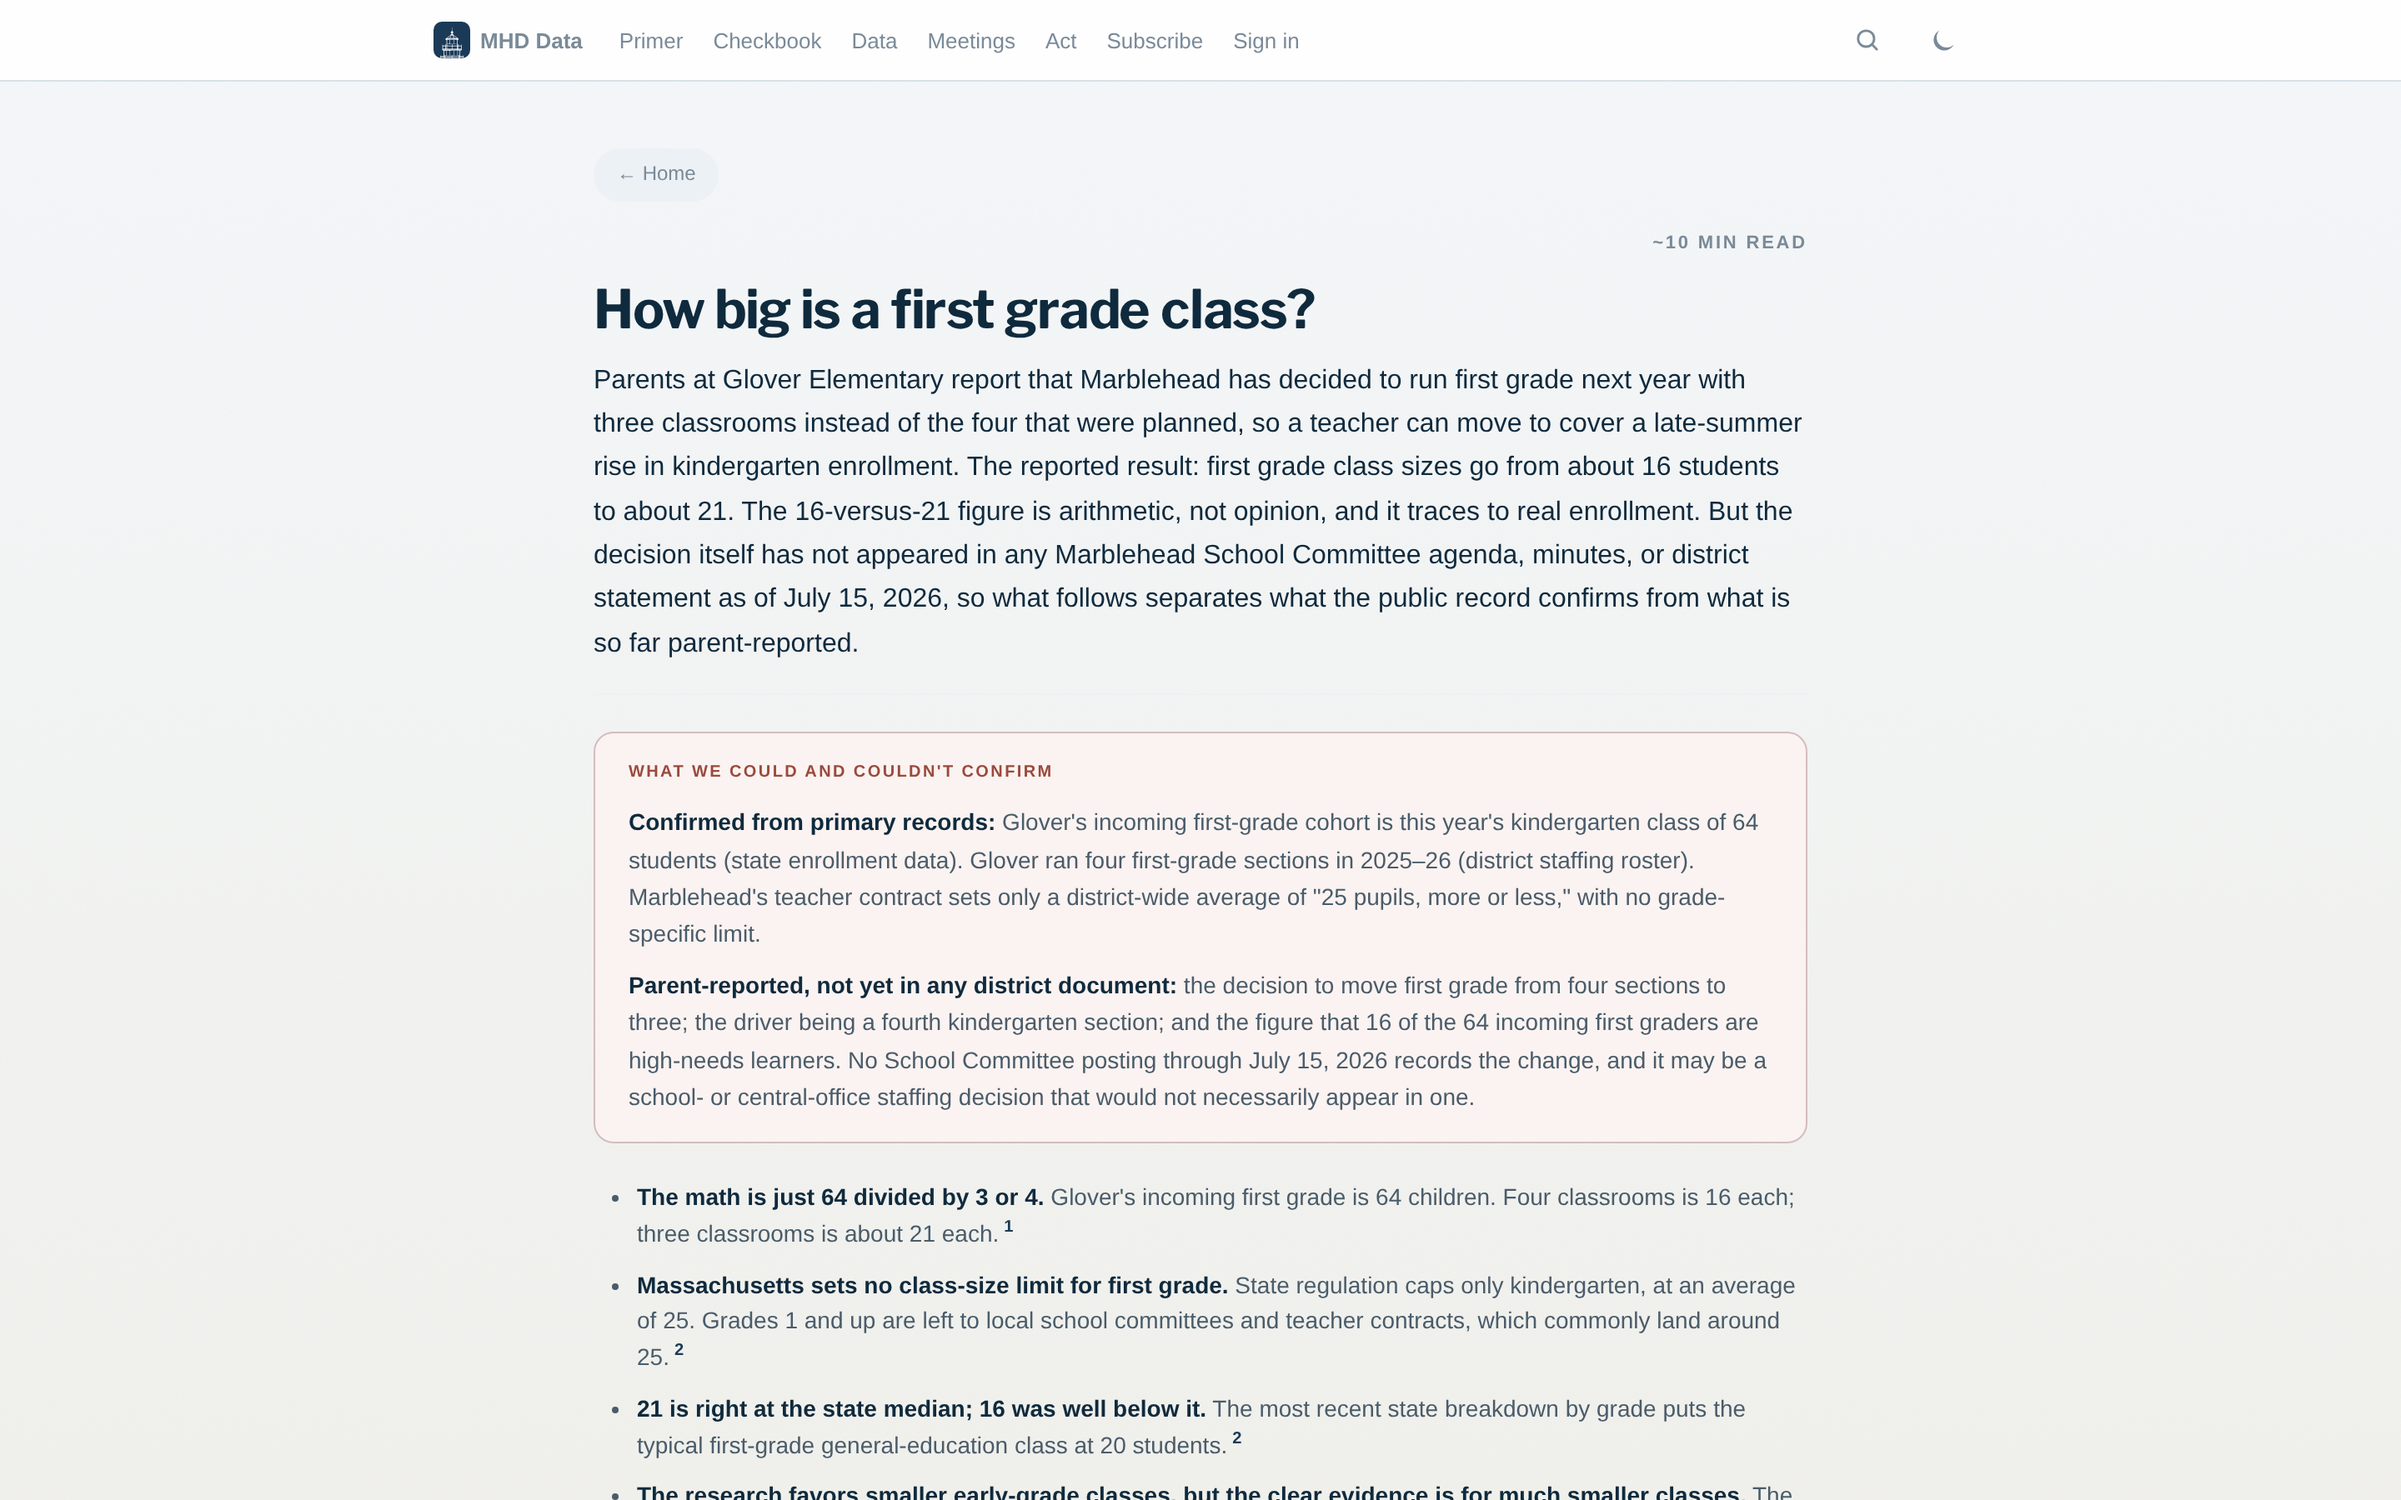
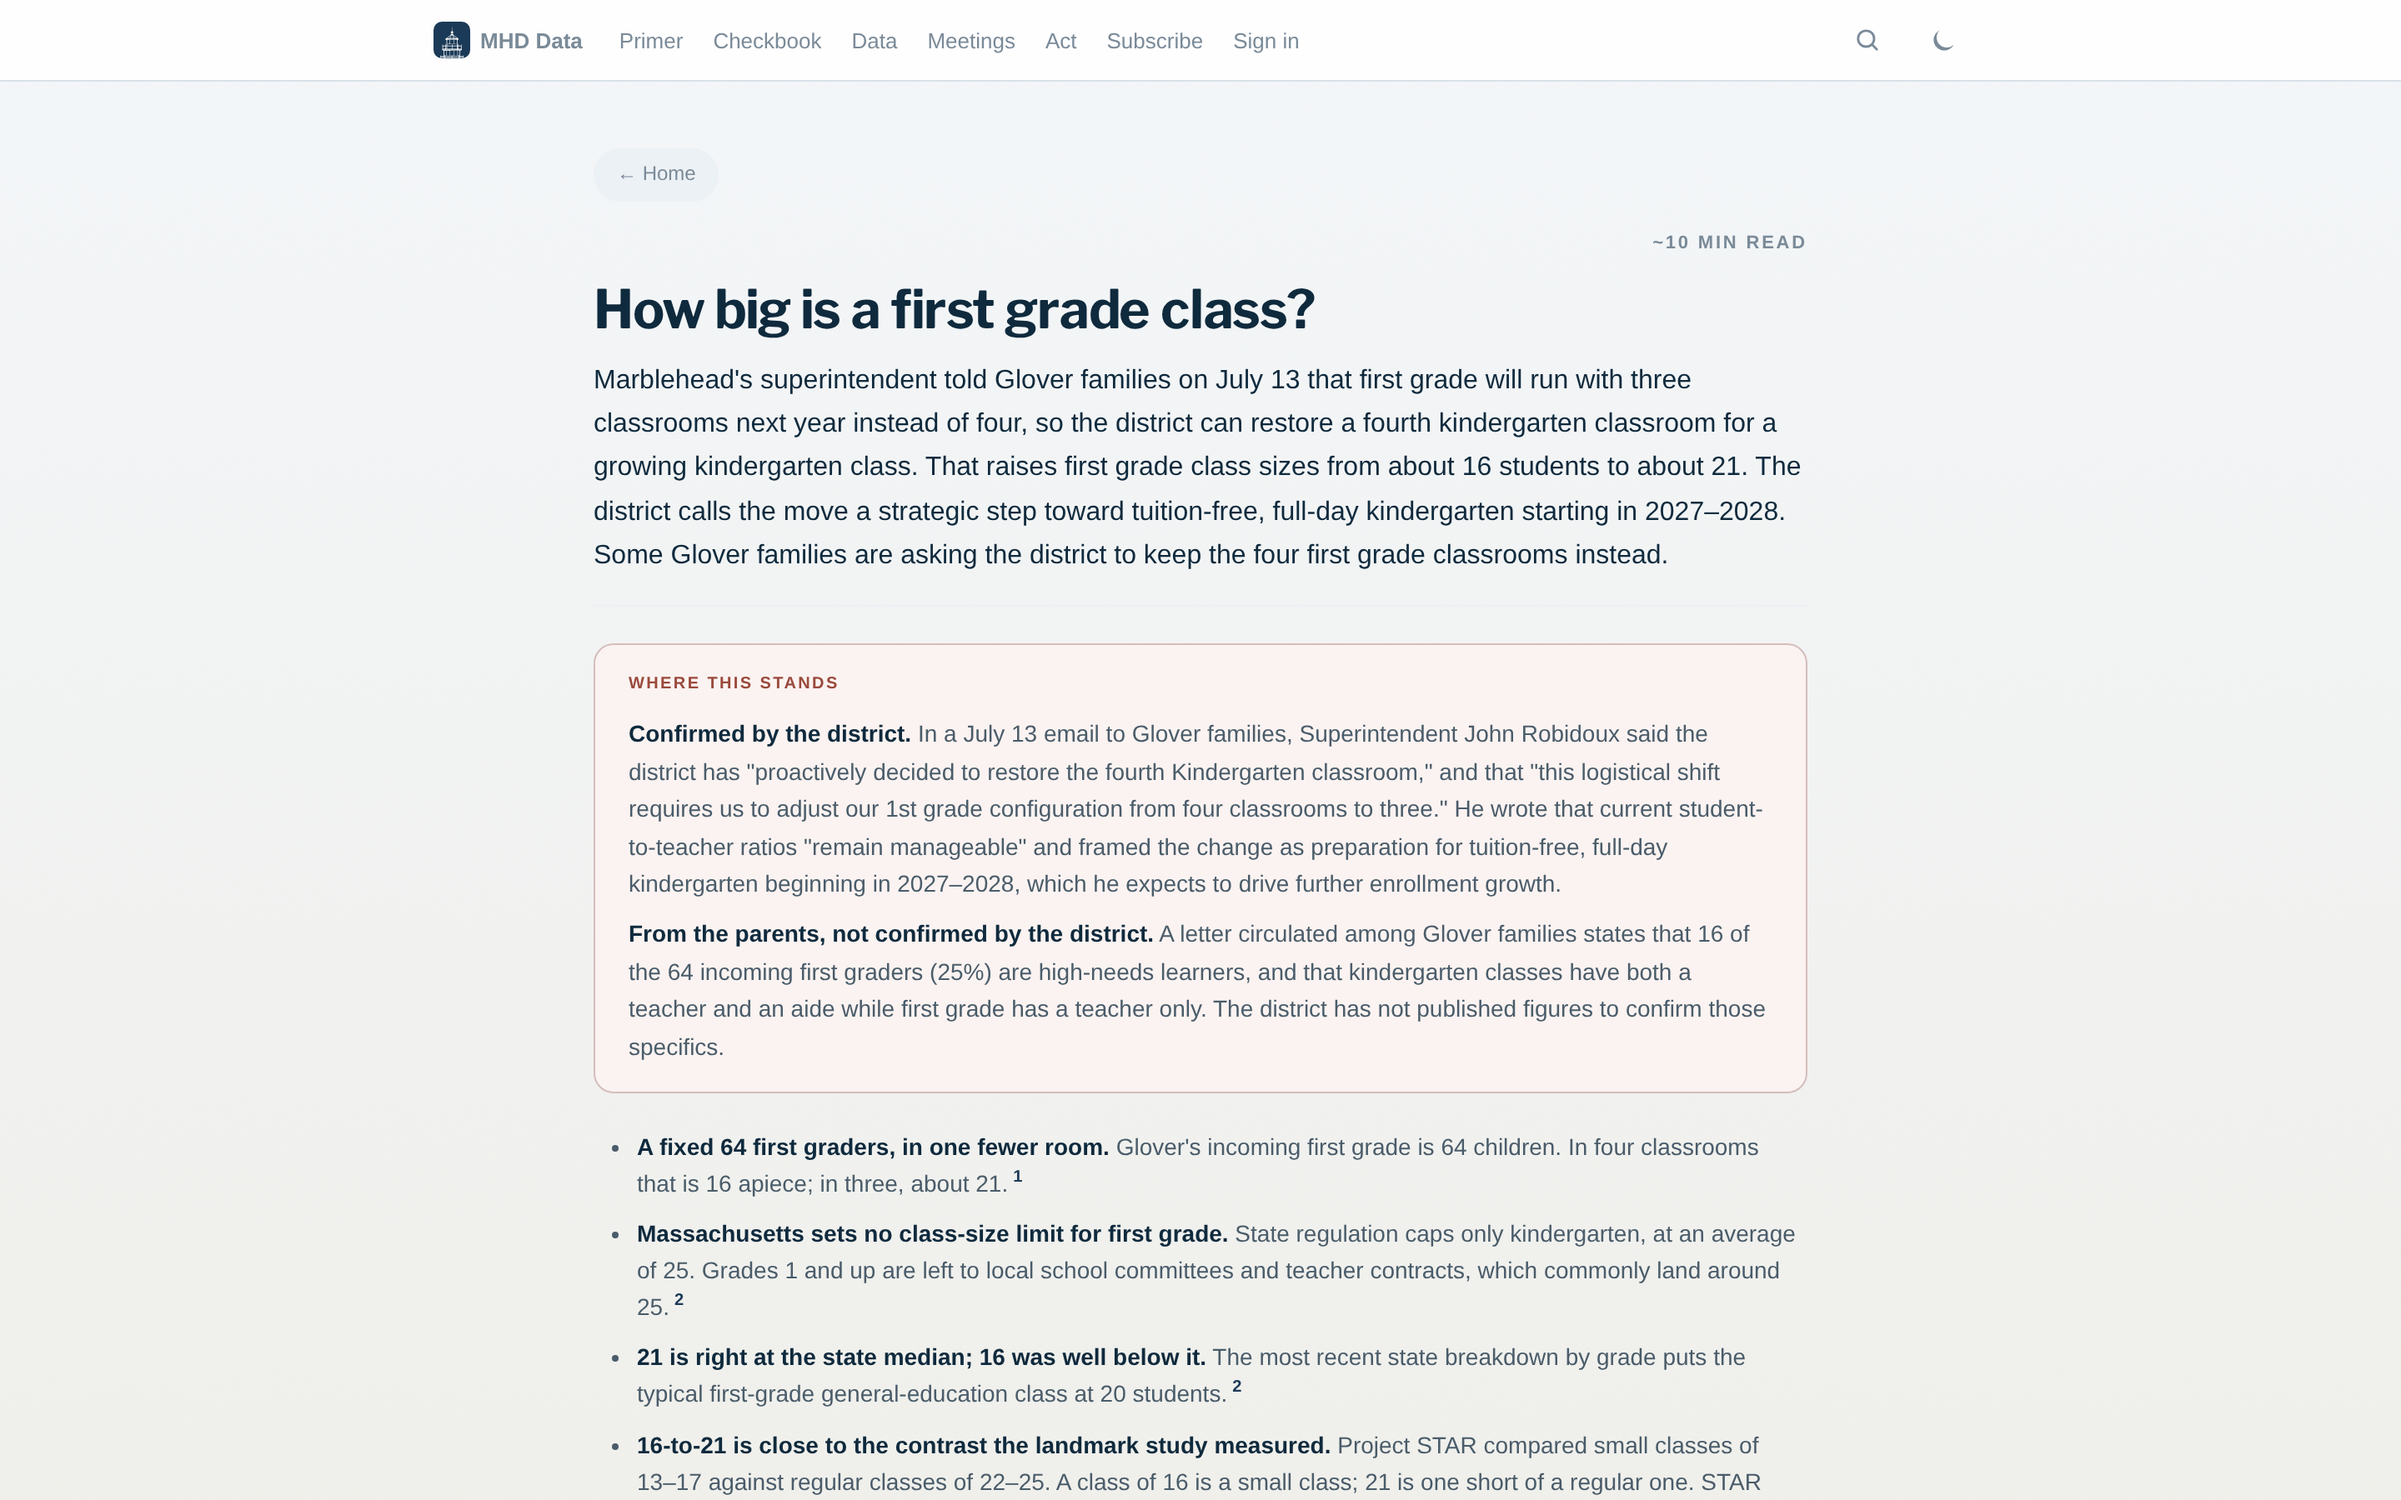
Reflect superintendent's confirmation of the 4-to-3 decision
Superintendent Robidoux's July 13 2026 email to Glover families confirms
the change (restore a 4th kindergarten room; move first grade from four
classrooms to three; prep for full-day K in 2027-28). Reworked from
"parent-reported / unconfirmed" to district-confirmed:

- Lead + "Where this stands" box now lead with the district decision and
  the superintendent's own words ("remain manageable", full-day-K prep);
  the 16-of-64 high-needs figure stays flagged as parents'-letter-only.
- Operational framing reflects the actual stated rationale.
- Open questions reworked: dropped "is there a record" (answered), added
  the kindergarten-up-vs-district-down tension and the full-day-K/override
  linkage (Remove FDK fee is a real Tier 2 item, cited).

Email and parents' letter attributed in prose, not hosted (no public
URL), so no broken-link footnotes. Refreshed proof screenshots.

Generated with [Claude Code](https://claude.ai/code)
via [Happy](https://happy.engineering)

Changed region(s): [[0.25, 0.2489, 0.75, 1.0]]

diff --git a/class-size.html b/class-size.html
@@ -2,7 +2,7 @@
 title: "How big is a first grade class?"
 scripts: [citations]
 og_title: "How big is a first grade class in Massachusetts?"
-og_description: "Glover parents report the district is cutting first grade from four classrooms to three, raising class sizes from about 16 to about 21. Where that sits against Massachusetts law, state data, and the research."
+og_description: "Marblehead's superintendent told Glover families first grade will drop from four classrooms to three so the district can restore a fourth kindergarten room, raising class sizes from about 16 to about 21. Where that sits against Massachusetts law, state data, and the research."
 og_url: https://marbleheaddata.org/class-size.html
 community_pulse: off-sections
 ---
@@ -106,13 +106,13 @@ community_pulse: off-sections
 <h1>How big is a first grade class?</h1>
 
 <p class="page-lead">
-  Glover Elementary parents say the district plans to run first grade with three classrooms next year instead of four, so a teacher can move to cover a late-summer rise in kindergarten enrollment. That raises first grade class sizes from about 16 students to about 21. The decision itself is not confirmed. No Marblehead School Committee agenda, minutes, or district statement mentions it as of July&nbsp;15,&nbsp;2026, so for now it is only what parents report.
+  Marblehead's superintendent told Glover families on July&nbsp;13 that first grade will run with three classrooms next year instead of four, so the district can restore a fourth kindergarten classroom for a growing kindergarten class. That raises first grade class sizes from about 16 students to about 21. The district calls the move a strategic step toward tuition-free, full-day kindergarten starting in 2027&ndash;2028. Some Glover families are asking the district to keep the four first grade classrooms instead.
 </p>
 
 <div class="cs-flag">
-  <div class="cs-flag-label">What we could and couldn't confirm</div>
-  <p><strong>Confirmed from primary records:</strong> Glover's incoming first-grade cohort is this year's kindergarten class of 64 students (state enrollment data). Glover ran four first-grade sections in 2025&ndash;26 (district staffing roster). Marblehead's teacher contract sets only a district-wide average of "25 pupils, more or less," with no grade-specific limit.</p>
-  <p><strong>Parent-reported, not yet in any district document:</strong> the decision to move first grade from four sections to three; the driver being a fourth kindergarten section; and the figure that 16 of the 64 incoming first graders are high-needs learners. No School Committee posting through July&nbsp;15,&nbsp;2026 records the change, and it may be a school- or central-office staffing decision that would not necessarily appear in one.</p>
+  <div class="cs-flag-label">Where this stands</div>
+  <p><strong>Confirmed by the district.</strong> In a July&nbsp;13 email to Glover families, Superintendent John Robidoux said the district has "proactively decided to restore the fourth Kindergarten classroom," and that "this logistical shift requires us to adjust our 1st grade configuration from four classrooms to three." He wrote that current student-to-teacher ratios "remain manageable" and framed the change as preparation for tuition-free, full-day kindergarten beginning in 2027&ndash;2028, which he expects to drive further enrollment growth.</p>
+  <p><strong>From the parents, not confirmed by the district.</strong> A letter circulated among Glover families states that 16 of the 64 incoming first graders (25%) are high-needs learners, and that kindergarten classes have both a teacher and an aide while first grade has a teacher only. The district has not published figures to confirm those specifics.</p>
 </div>
 
 <ul class="tldr">
@@ -205,7 +205,7 @@ community_pulse: off-sections
   </article>
   <article class="cs-framing cs-framing--district">
     <h3>The operational case</h3>
-    <p>A district has a fixed number of teachers and has to place them where the children are. If kindergarten enrollment rises late in the summer, a fourth kindergarten room has to come from somewhere, and first grade at 21 stays at the state median and well inside the contract's average of 25. On this reading the change is a reallocation forced by enrollment, not a cut, and 21 is an ordinary first-grade class almost anywhere in Massachusetts.</p>
+    <p>A district has a fixed number of teachers and has to place them where the children are. The superintendent says kindergarten registration is climbing, and the district is restoring a fourth kindergarten room to meet it and to prepare for full-day kindergarten in 2027&ndash;2028; first grade at 21 stays at the state median and well inside the contract's average of 25. On this reading the change is a reallocation driven by kindergarten demand, not a cut, and 21 is an ordinary first-grade class almost anywhere in Massachusetts.</p>
   </article>
   <article class="cs-framing cs-framing--evidence">
     <h3>What the evidence supports</h3>
@@ -216,10 +216,10 @@ community_pulse: off-sections
 <h2>Open questions</h2>
 
 <ol>
-  <li><strong>Is there a district record of the decision?</strong> As of July&nbsp;15,&nbsp;2026 no School Committee agenda or minutes, and no district statement, records the four-to-three change. It may be a school-level staffing decision that never reaches the committee. The next posted agenda or a direct answer from the superintendent's office would confirm it.</li>
-  <li><strong>Surge or decline?</strong> The reported driver is a late-summer rise in kindergarten enrollment, but the district's own FY27 budget narrative repeatedly cites <em>declining</em> enrollment to explain why cut positions were not restored. Reconciling those two pictures would clarify whether this is a genuine one-year bulge or a placement choice.<sup class="cite" data-href="https://www.marbleheadschools.org/school-committee/agendas-materials-and-minutes" data-source="Marblehead Public Schools FY27 budget materials cite district-wide declining enrollment; the reported Glover kindergarten increase is a school-level, late-summer figure. The two are not necessarily in conflict but have not been reconciled publicly."></sup></li>
-  <li><strong>How many high-needs students, and how are they distributed?</strong> The 16-of-64 figure comes from the parents' letter. The district has not published a high-needs count for the cohort, and how those students are spread across three or four rooms matters as much as the raw class size.</li>
-  <li><strong>What did the spring staffing plan assume?</strong> If the budget passed last spring funded four first-grade sections at Glover, the district planned for 16, not 21. Whether that was a firm commitment or a placeholder against uncertain enrollment is the difference between a reversal and a routine summer adjustment.</li>
+  <li><strong>How firm is the three-classroom configuration?</strong> The superintendent announced it on July&nbsp;13, weeks before school starts and while kindergarten registration is still moving. Whether three first-grade rooms is final, or would be revisited if the kindergarten count settles differently, is not yet clear.</li>
+  <li><strong>Kindergarten up, district down.</strong> The superintendent cites a steady rise in kindergarten registration and expects full-day kindergarten to drive more growth. The district's FY27 budget narrative cites <em>declining</em> district-wide enrollment to explain why cut positions were not restored. Both can hold at once, one grade rising while the district shrinks, but the two pictures have not been reconciled publicly.<sup class="cite" data-href="https://www.marbleheadschools.org/school-committee/agendas-materials-and-minutes" data-source="Marblehead Public Schools FY27 budget materials cite district-wide declining enrollment; the superintendent's July 13 email cites a steady rise in Glover kindergarten registration. The two are not necessarily in conflict but have not been reconciled publicly."></sup></li>
+  <li><strong>How many high-needs students, and how are they distributed?</strong> The 16-of-64 figure comes from the parents' letter. The district has not published a high-needs count for the cohort, and how those students are spread across three rooms matters as much as the raw class size.</li>
+  <li><strong>Does the full-day-kindergarten plan depend on the override?</strong> The superintendent ties this move to tuition-free, full-day kindergarten in 2027&ndash;2028. Removing the kindergarten tuition fee is a proposed override item ($671,408 in FY28), so the timing of that expansion may hinge on the override vote.<sup class="cite" data-href="/data/override_school_items.csv" data-source="data/override_school_items.csv: proposed override Tier 2 item 'Remove fee for Full Day Kindergarten,' $671,408 (FY28) and $710,711 (FY29)."></sup></li>
 </ol>
 
 <details class="notes">
@@ -231,5 +231,5 @@ community_pulse: off-sections
   <p><strong>Grade-level medians.</strong> The department's 2017 brief, Table 1, reports general-education median class sizes of 20.0 (grade 1), 20.7 (grade 2), 21.1 (grade 3), and 21.4 (grade 4). The 2024&ndash;25 statewide average of 17.2 is an all-classes figure that includes special-education, English-learner, and elective sections and is not comparable to a single first-grade homeroom.</p>
   <p><strong>Research.</strong> Tennessee Project STAR figures are from the Finn &amp; Achilles summary: a K&ndash;3 randomized trial comparing classes of 13&ndash;17 to 22&ndash;25, with gains of roughly one-fourth of a standard deviation concentrated in the early grades. The mixed broader evidence is from the Campbell Collaboration systematic review (Filges et al.) and Eric Hanushek's independent analysis of STAR. The teacher-quality trade-off is documented in the department's 2017 brief, citing the California and New York experiences.</p>
   <p><strong>Peer districts.</strong> Needham's "19 or below" transfer threshold is from School Committee policy JECBC. Martha's Vineyard's review-above-20 trigger is from Article XVII of the 2025&ndash;2028 MVEA contract. These are illustrative peer practices, not Marblehead standards.</p>
-  <p><strong>What is not confirmed.</strong> The decision to reduce Glover first grade from four sections to three, the fourth-kindergarten-section driver, and the 16-of-64 high-needs count are reported in a letter circulated to Glover families and had not appeared in any Marblehead School Committee agenda, minutes, or district statement as of July&nbsp;15,&nbsp;2026. This page will be updated if a primary record surfaces.</p>
+  <p><strong>Sourcing of the decision.</strong> The move from four first-grade classrooms to three, and the reason for it, restoring a fourth kindergarten classroom and preparing for full-day kindergarten in 2027&ndash;2028, come from Superintendent John J. Robidoux's July&nbsp;13, 2026 email to Glover families (on file, not published here). The 16-of-64 high-needs figure and the teacher-plus-aide staffing detail come from a separate letter circulated among Glover families and are not confirmed by any district document.</p>
 </details>
